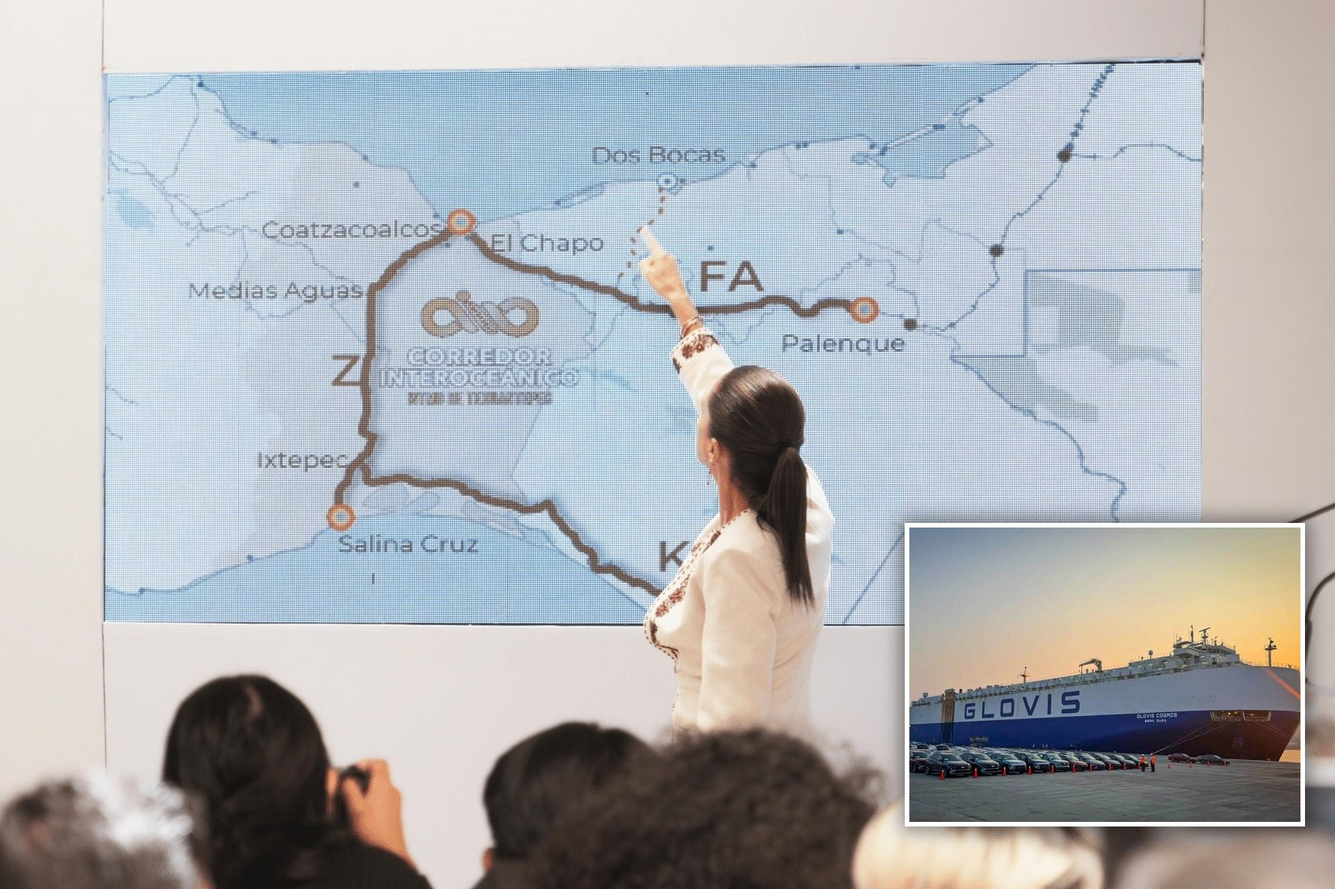
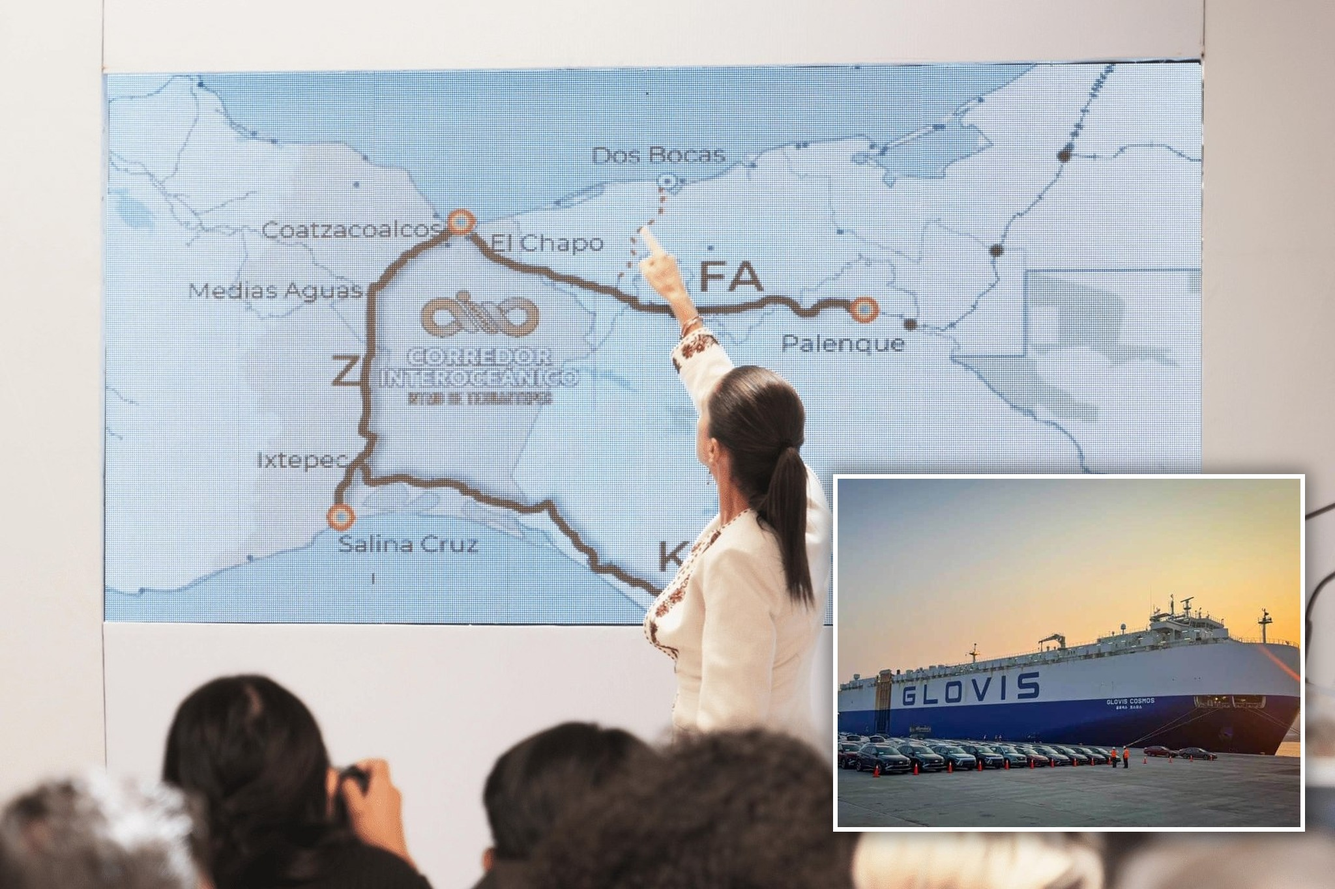
Enlarge ship inset on Interoceanic Corridor featured composite

Changed region(s): [[0.5938, 0.5231, 1.0, 0.9538]]

diff --git a/translations/2026-07-10-korean-ship-corridor/article.html b/translations/2026-07-10-korean-ship-corridor/article.html
@@ -1,5 +1,5 @@
-<!-- wp:image {"id":17867,"sizeSlug":"large"} -->
-<figure class="wp-block-image size-large"><img src="https://mexicosolidarity.com/wp-content/uploads/2026/07/korean-ship-corridor-large.jpg" alt="President Sheinbaum points at the Interoceanic Corridor map; inset shows the Glovis Cosmos with Hyundai vehicles at port" class="wp-image-17867"/><figcaption class="wp-element-caption">Photo: Presidencia / Marine Traffic</figcaption></figure>
+<!-- wp:image {"id":17869,"sizeSlug":"large"} -->
+<figure class="wp-block-image size-large"><img src="https://mexicosolidarity.com/wp-content/uploads/2026/07/korean-ship-corridor-large-1.jpg" alt="President Sheinbaum points at the Interoceanic Corridor map; inset shows the Glovis Cosmos with Hyundai vehicles at port" class="wp-image-17869"/><figcaption class="wp-element-caption">Photo: Presidencia / Marine Traffic</figcaption></figure>
 <!-- /wp:image -->
 
 <!-- wp:paragraph -->
